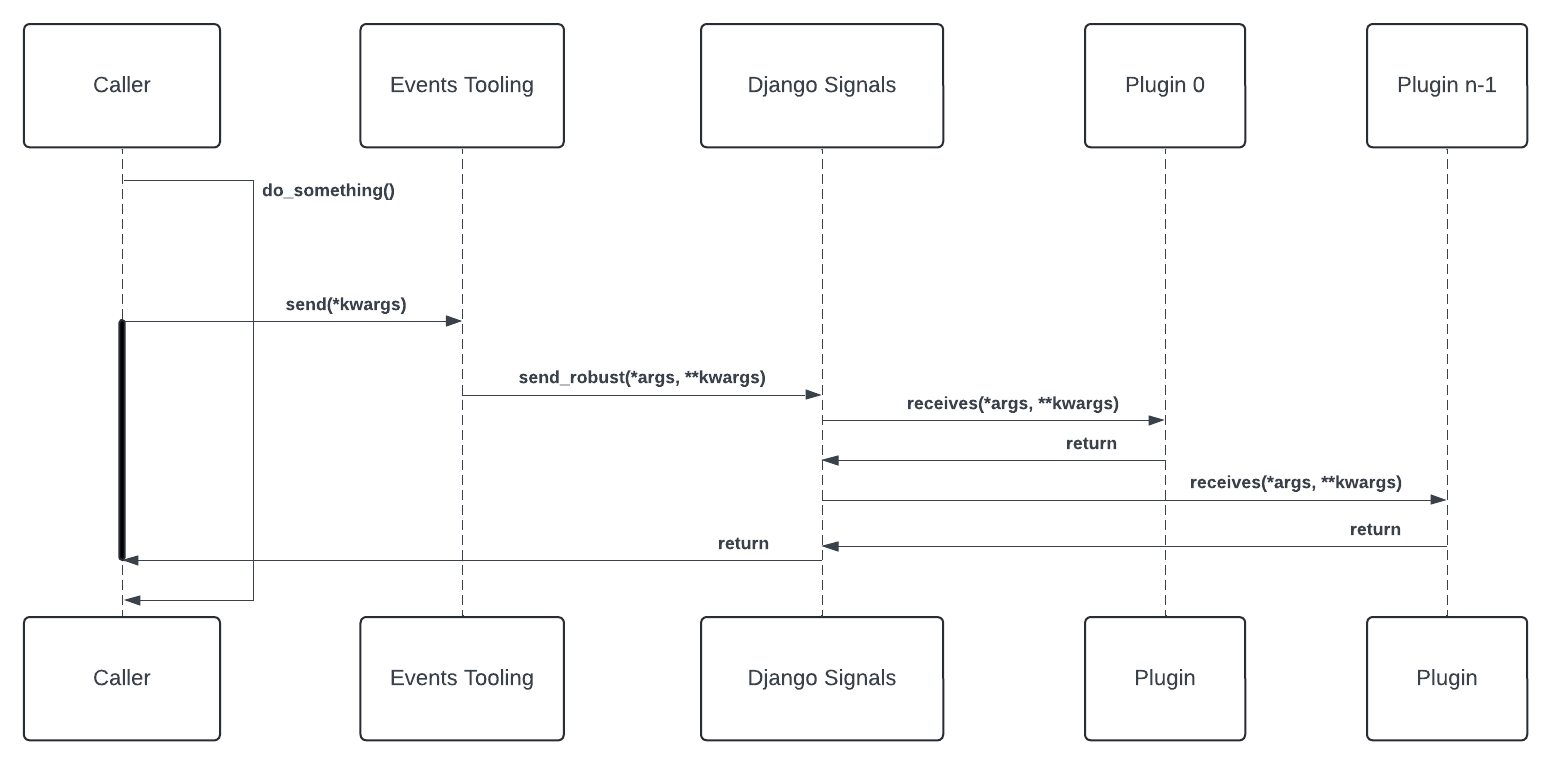
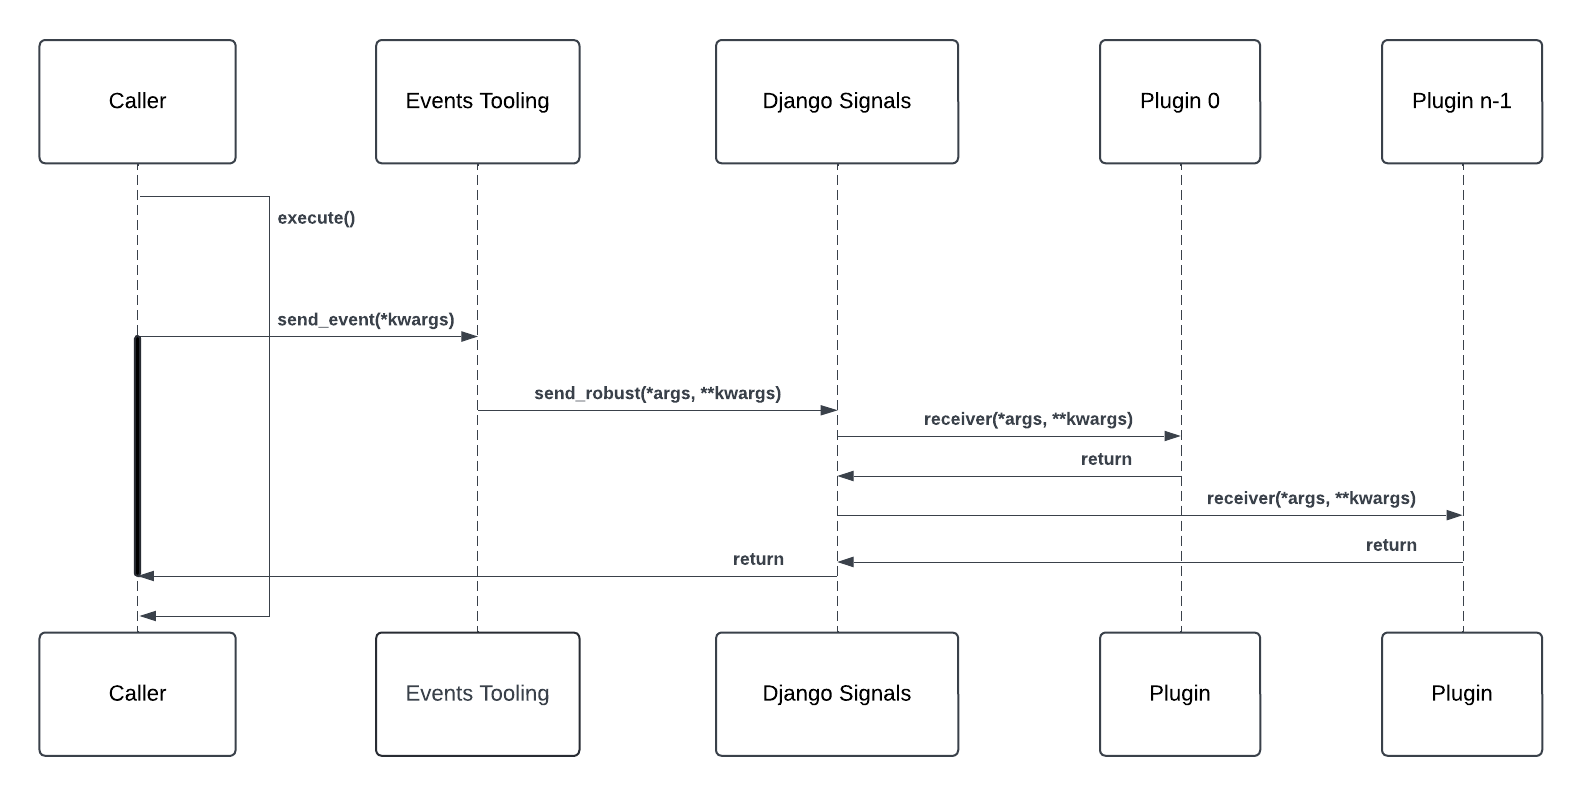
refactor: move diagram into its own section

diff --git a/docs/concepts/openedx-events.rst b/docs/concepts/openedx-events.rst
@@ -22,17 +22,30 @@ How do Open edX Events work?
 
 Open edX Events are implemented by a class called `OpenEdxPublicSignal`_, which inherits from `Django's Signals class` and adds behaviors specific to the Open edX ecosystem. Thanks to this design, ``OpenEdxPublicSignal`` leverages the functionality of Django signals, allowing developers to apply their existing knowledge of the Django framework.
 
+Components
+~~~~~~~~~~
+
+#. Application (caller): The application component that emits the event. Developers may have emitted this event in a key section of the application logic, signaling that a specific action has occurred. E.g., a user has enrolled in a course, `triggering the COURSE_ENROLLMENT_CREATED event`_.
+#. OpenEdxPublicSignal: The class that implements all methods used to manage sending the event. As mentioned previously, this class inherits from Django's Signals class and adds Open edX-specific metadata and behaviors.
+#. Django Signals: The Django framework's built-in signal mechanism.
+#. Receiver1...ReceiverN: The components that listen to the event and execute custom logic in response. This receivers are implemented as Django signal receivers.
+
+Workflow
+~~~~~~~~
+
+The workflow of emitting and processing an Open edX Event with N receivers is as follows:
+
 The event execution process follows these steps:
 
-#. An application component emits an event by calling the `send_event` method implemented by `OpenEdxPublicSignal`_.
+#. An application (caller) emits an event by calling the `send_event`_ method implemented by `OpenEdxPublicSignal`_ which the event inherits from.
 
-#. The class generates Open edX-specific metadata for the event on the fly, like the event version or the timestamp when the event was sent. The event receivers use this metadata during their processing.
+#. The `send_event`_ method generates Open edX-specific metadata for the event on the fly, like the event version or the timestamp when the event was sent. The event receivers can access this metadata during their processing.
 
-#. The tooling uses the `send or send_robust`_ method from Django signals under the hood. The ``send`` method is used for development and testing, while the ``send_robust`` method is used in production to ensure receivers don't raise exceptions halting the application process.
+#. After, the `send_event`_ method calls the `send or send_robust`_ method from Django Signals under the hood. The ``send`` method is used for development and testing, while the ``send_robust`` method is used in production to ensure receivers don't raise exceptions halting the application process.
 
-#. Building on Django signals allows us to use the same `Django signals registry mechanism`_ for receiver management. This means that developers can register `signal receivers in their plugins`_ for Open edX Events in the same way they would for Django signals.
+#. Building on Django Signals allows us to use the same `Django signals registry mechanism`_ for receiver management. This means that developers can register `signal receivers in their plugins`_ for Open edX Events in the same way they would for Django signals.
 
-#. The event is sent to all registered receivers, which are executed in the order they were registered. Each receiver processes the event data and performs the necessary actions.
+#. All registered receivers are executed in the order they were registered. Each receiver processes the event data and performs the necessary actions.
 
 #. After all receivers for the event have been executed, the process continues with the application logic.
 
